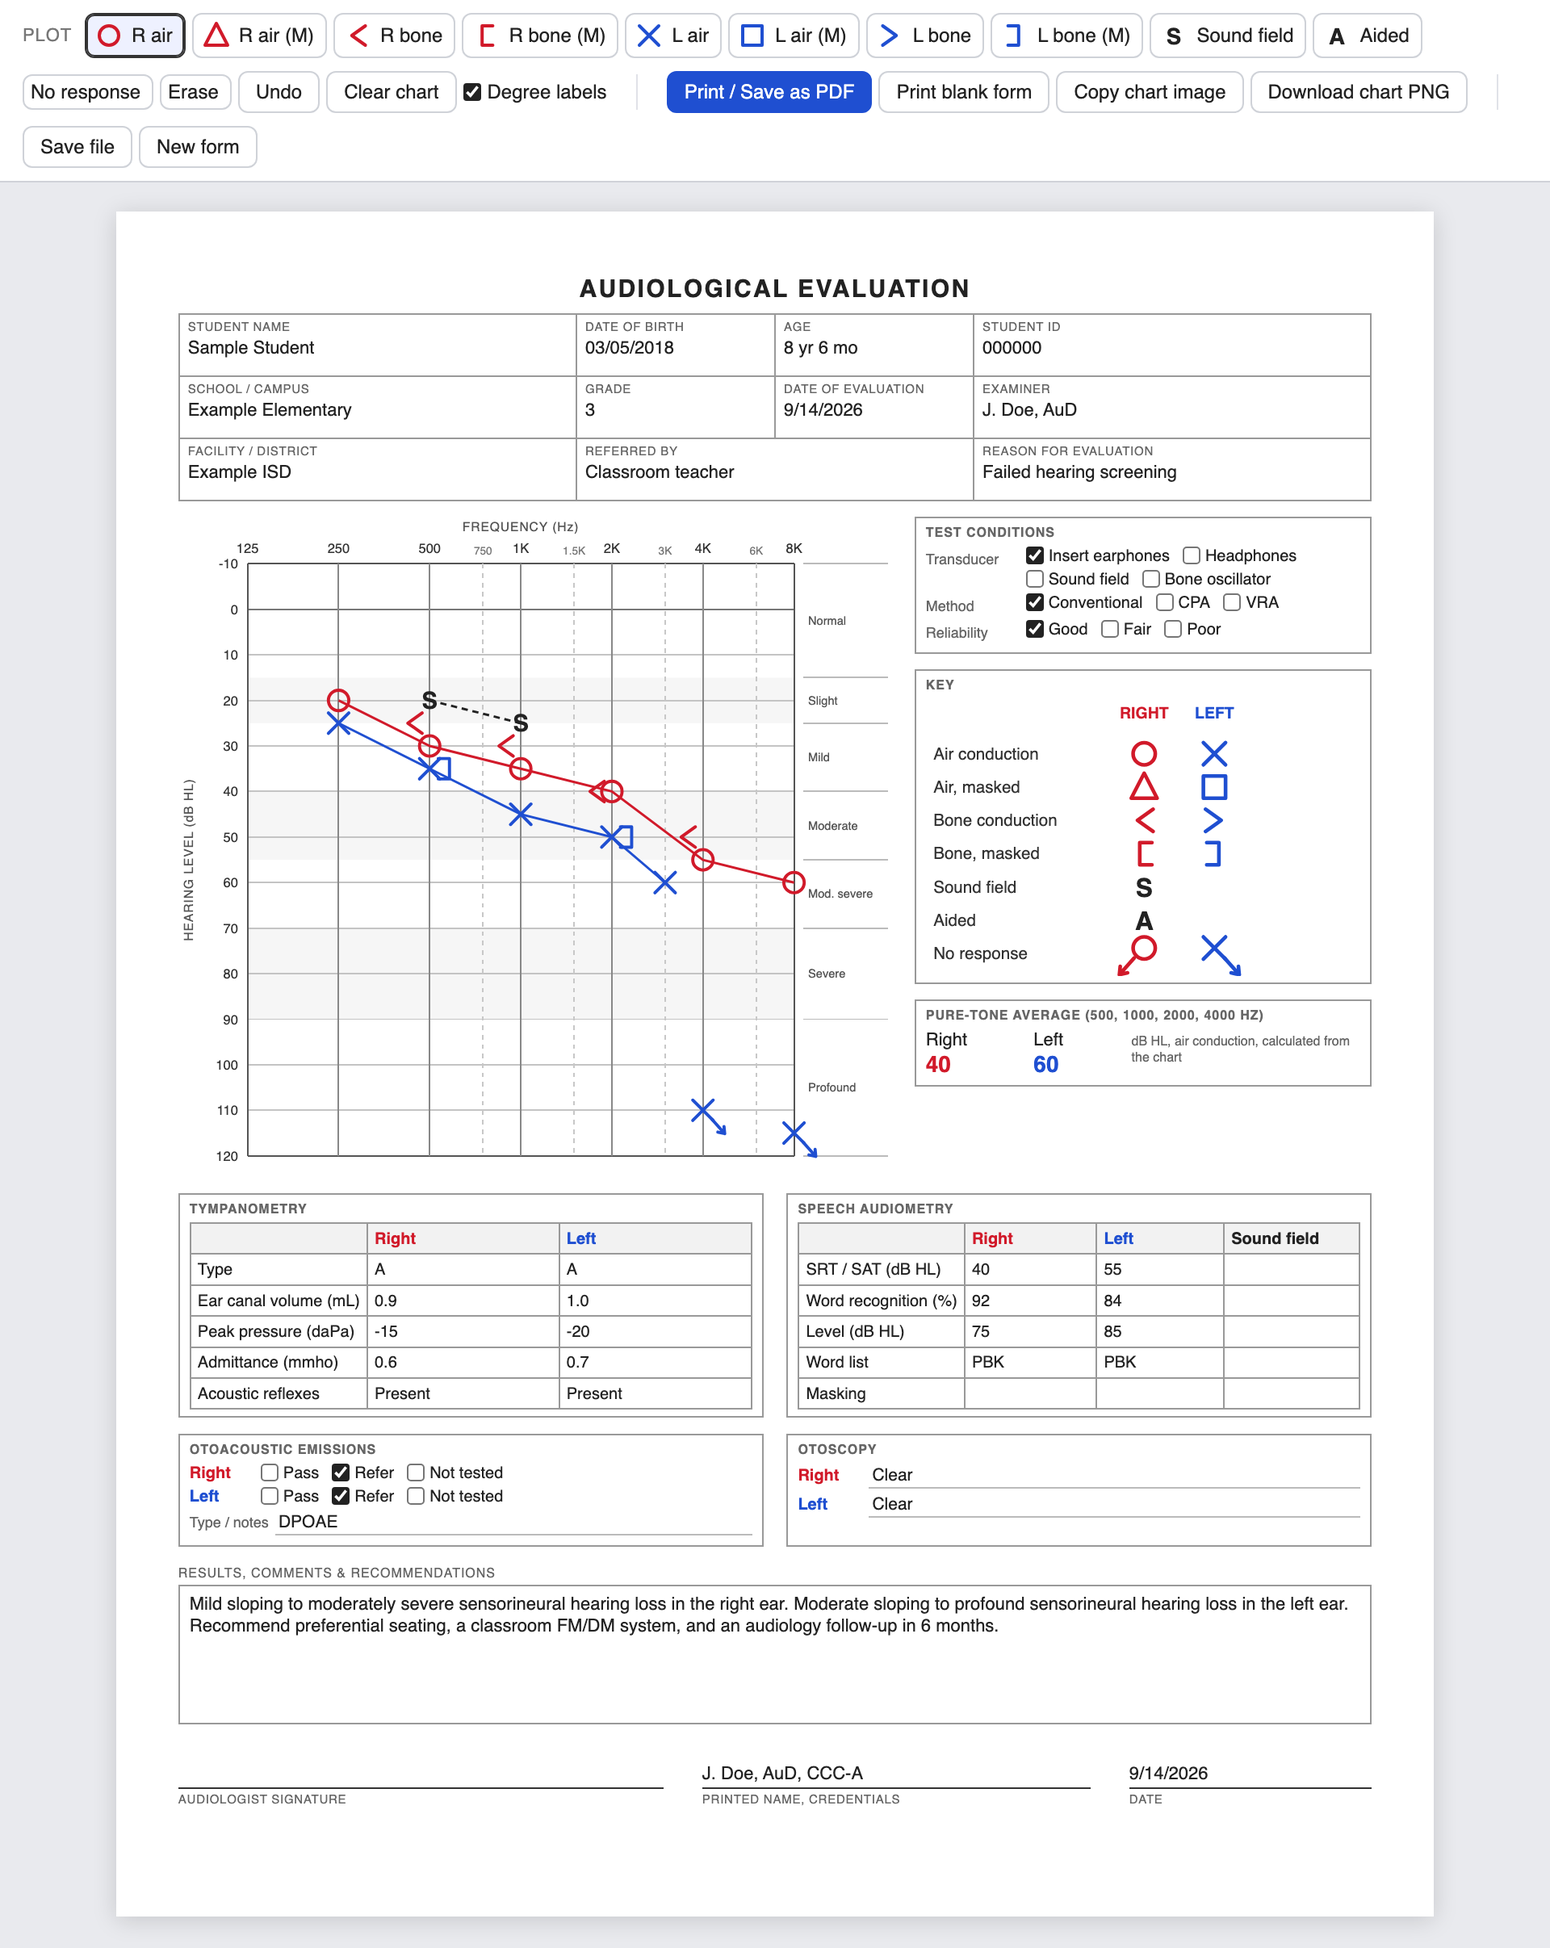
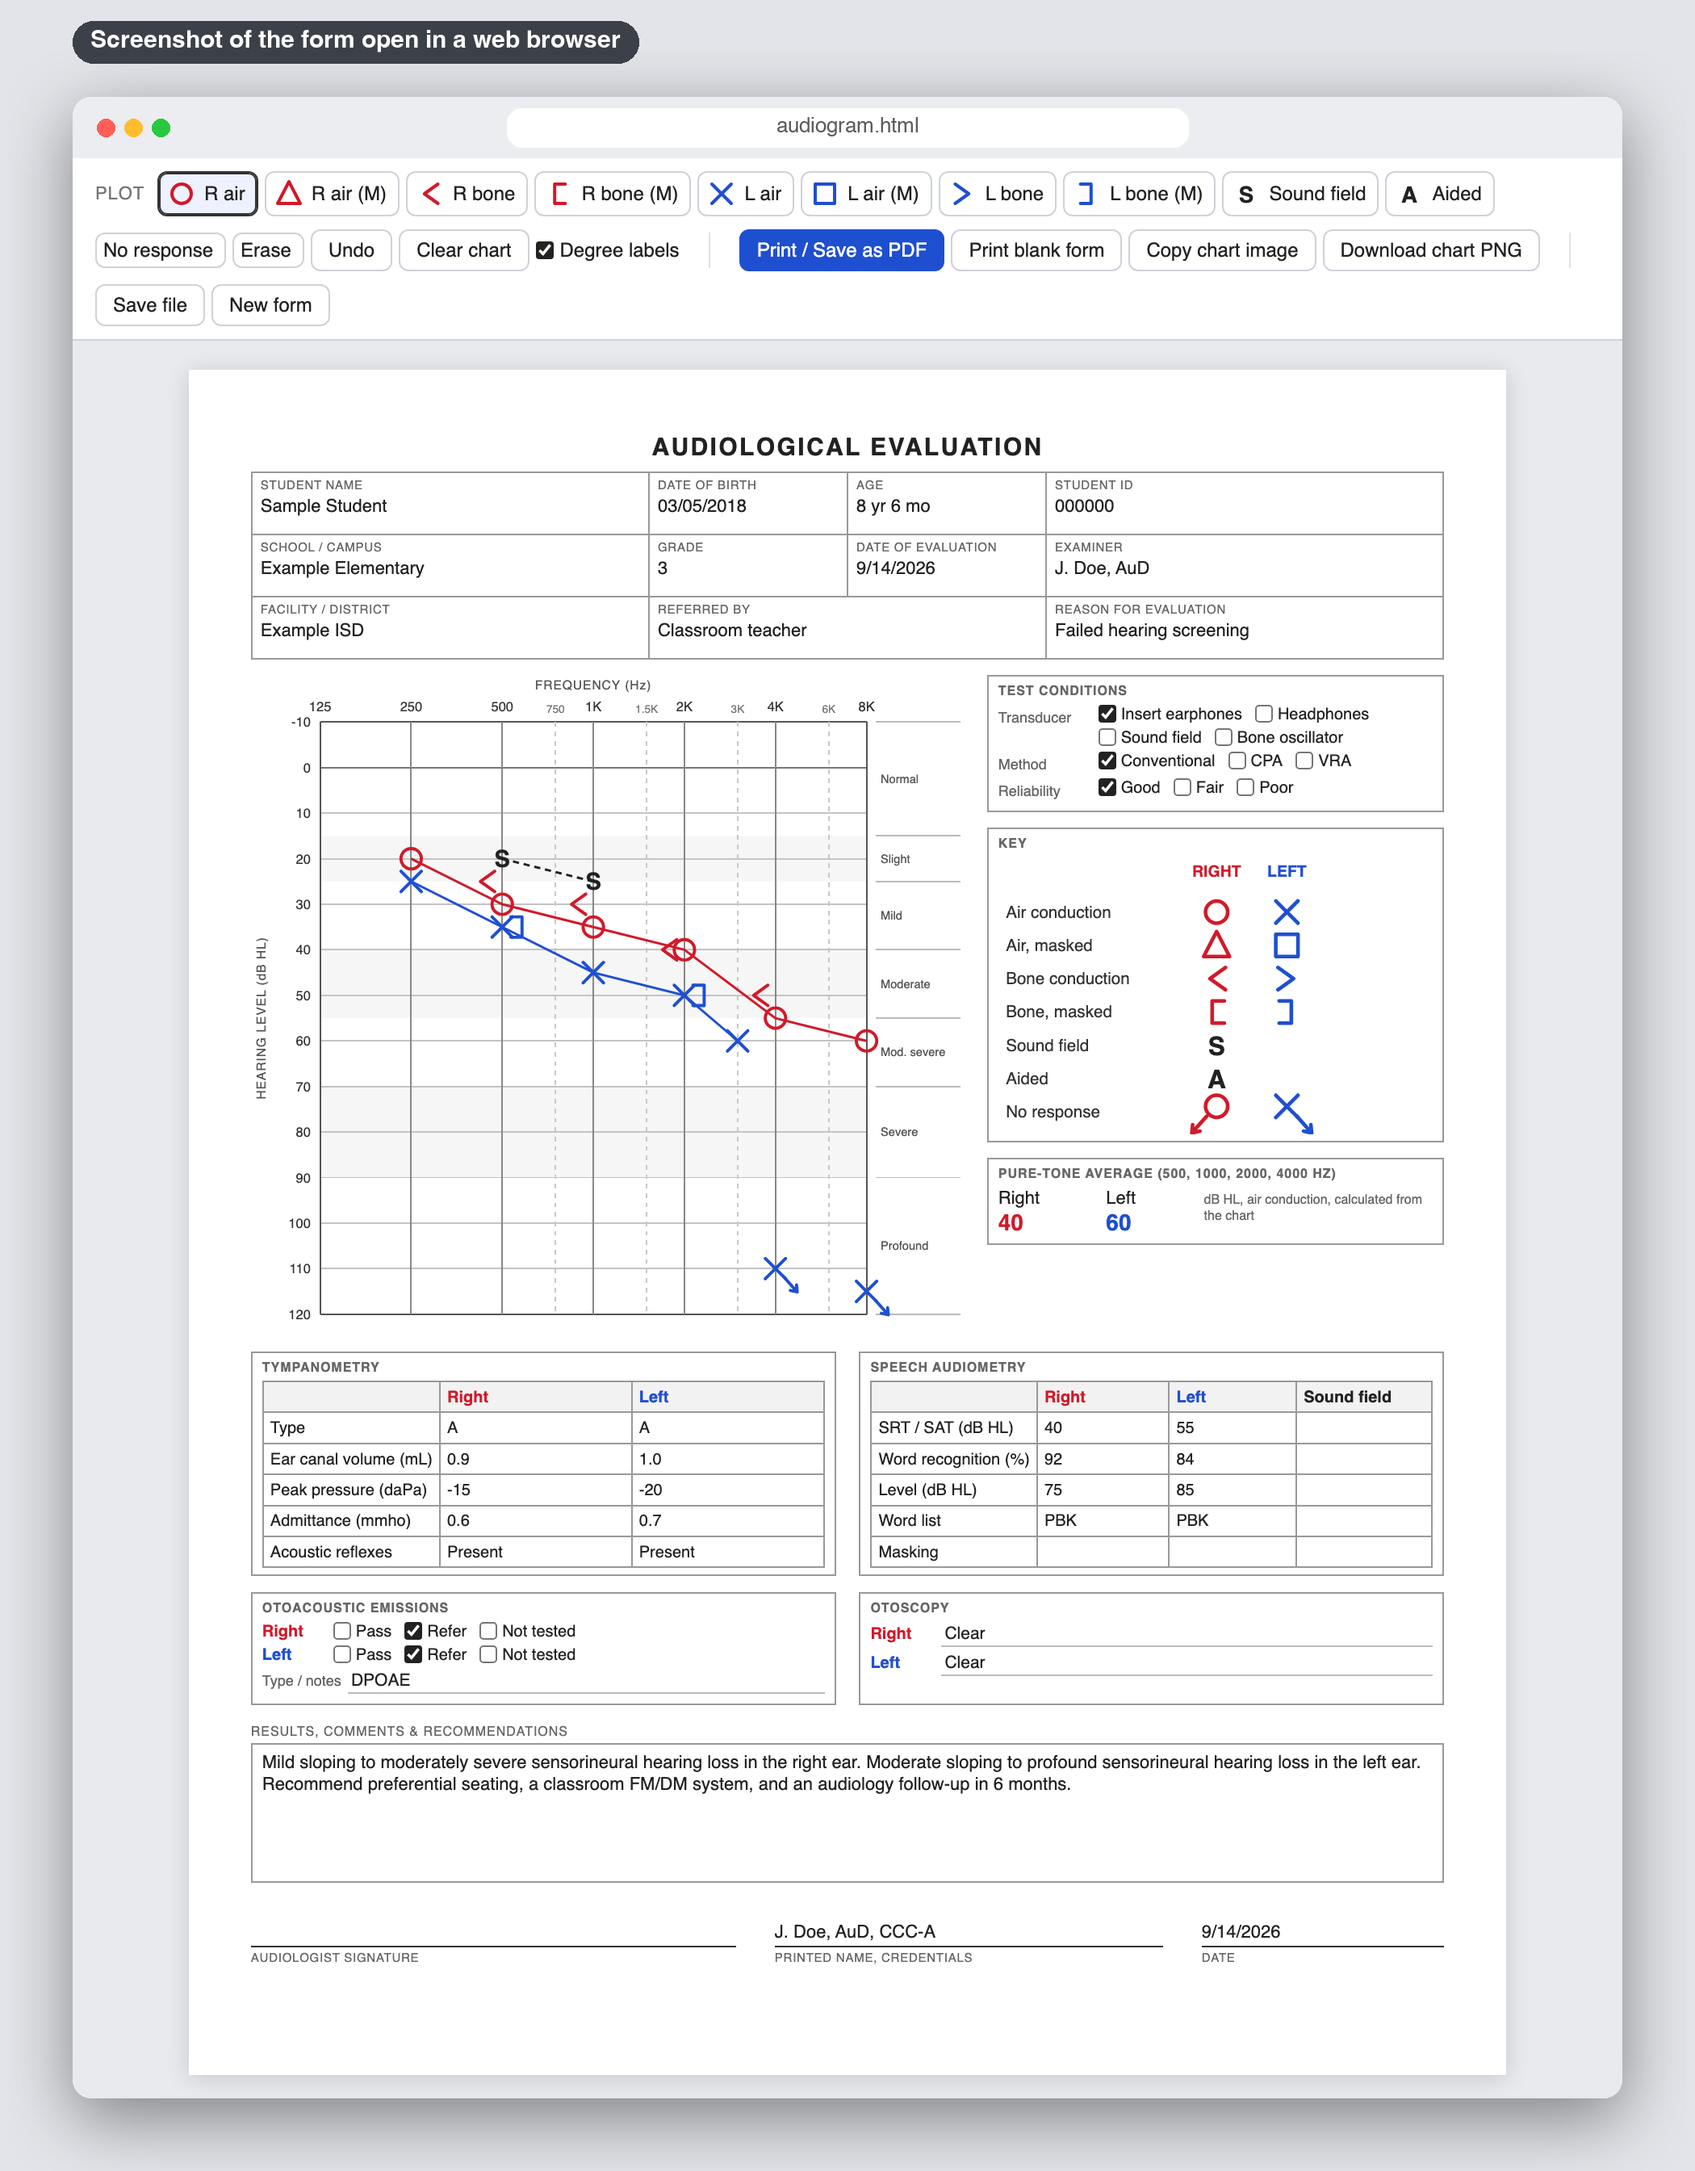
README: download section before screenshots; frame screenshots as pictures

Changed region(s): [[0.0, 0.0, 1.0, 0.9946]]

diff --git a/README.md b/README.md
@@ -6,15 +6,7 @@ It is one file, `audiogram.html`, that opens in any web browser (Chrome, Edge, S
 
 It was made for educational audiologists who needed an editable audiogram and couldn't find one to buy.
 
-## What it looks like
-
-Filling it in on screen. Pick a symbol from the top, click on the chart, and the symbol snaps into place.
-
-![The form on screen with a sample audiogram plotted](docs/form-on-screen.png)
-
-What comes out of the printer, or the PDF you save. One US Letter page.
-
-![The printed page](docs/printed-page.png)
+This page is just a description of it, with a download link and some pictures. The form itself is the file you download in the next section.
 
 ## How to download it
 
@@ -25,6 +17,18 @@ What comes out of the printer, or the PDF you save. One US Letter page.
 Move the file wherever you like: your desktop, Google Drive, a USB stick. It works from anywhere, and you can email it to a colleague.
 
 If the link above doesn't work for you, there's a second way: click the green **Code** button near the top of this page, choose **Download ZIP**, then unzip it and open `audiogram.html`.
+
+## What it looks like
+
+These are pictures, not the form itself. Clicking on them won't fill anything in. Clicking a picture downloads the real form, same as the link above.
+
+Filling it in on screen. You pick a symbol from the toolbar at the top, click on the chart, and the symbol snaps into place.
+
+[![Screenshot of the form open in a web browser, with a sample audiogram plotted](docs/form-on-screen.png)](https://github.com/citizenkade/editable-audiogram/releases/latest/download/audiogram.html)
+
+What comes out of the printer, or the PDF you save. One US Letter page.
+
+[![Screenshot of the printed page](docs/printed-page.png)](https://github.com/citizenkade/editable-audiogram/releases/latest/download/audiogram.html)
 
 ## How to use it
 
